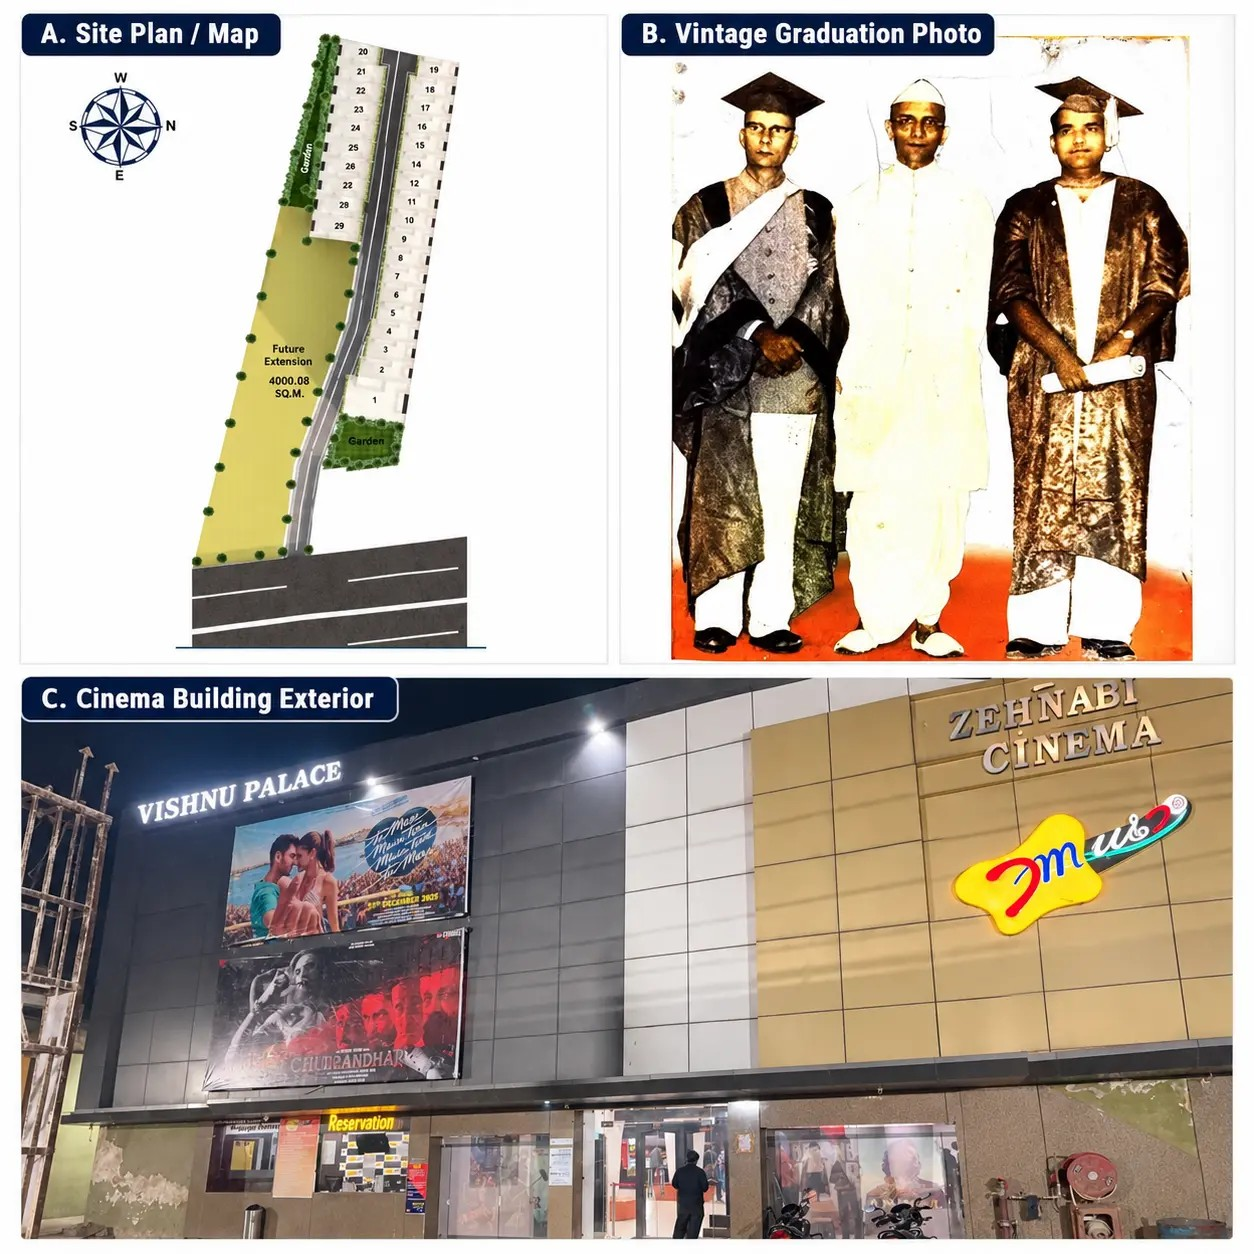
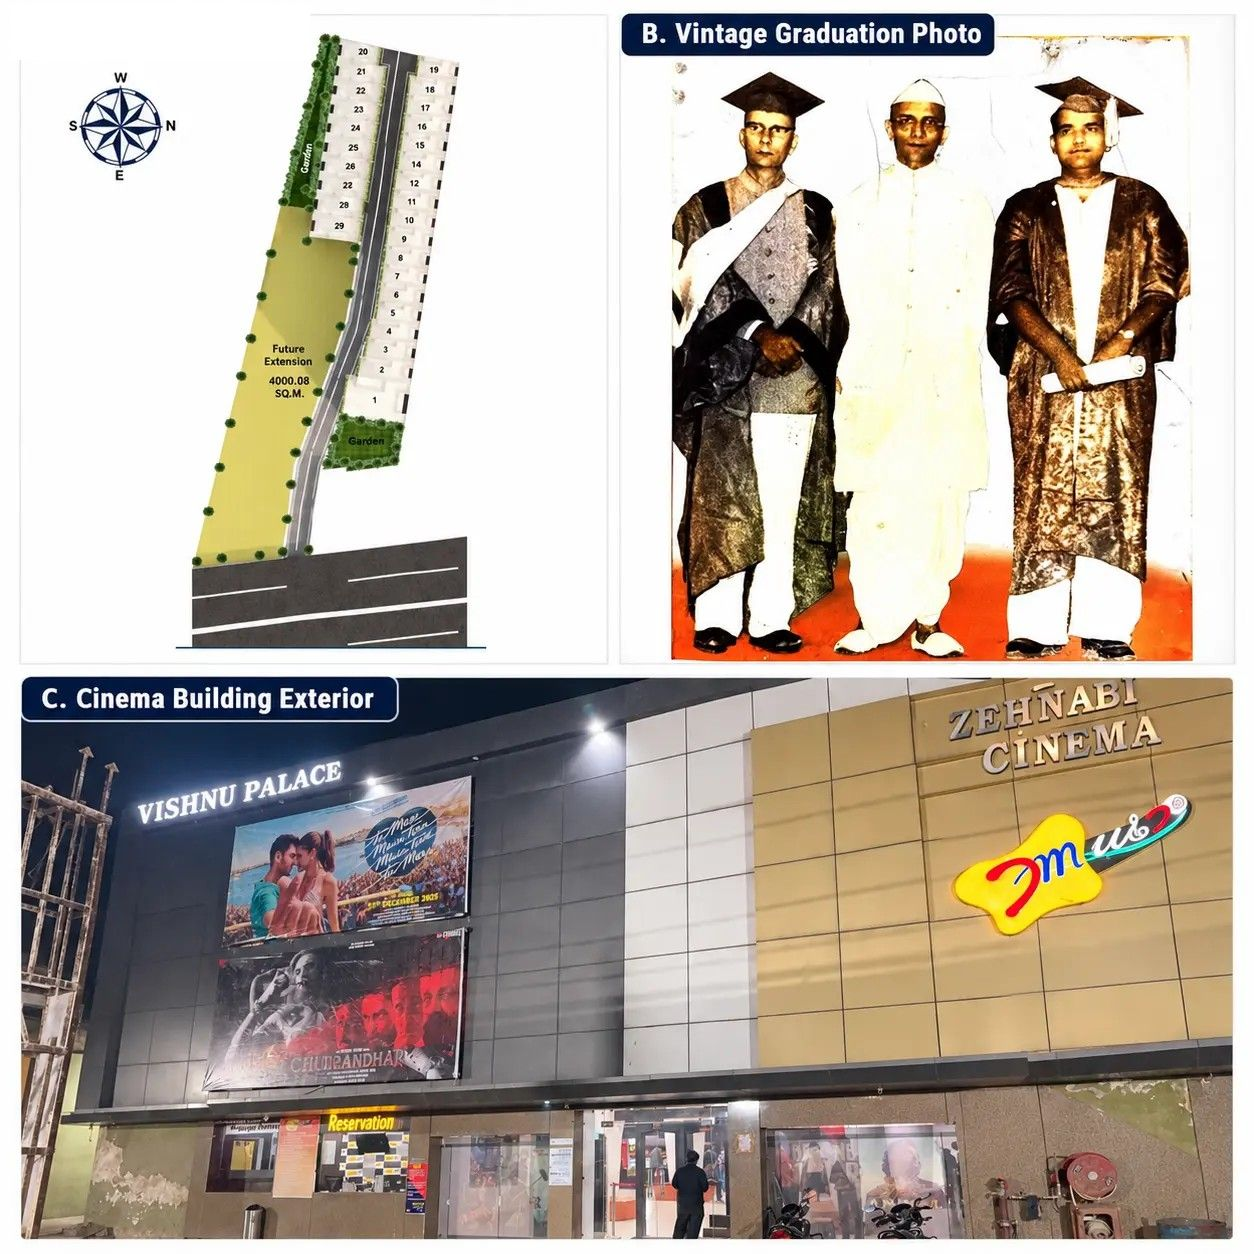
Remove Site Plan label from legacy composite, drop A Look Back card
- The "A. Site Plan / Map" badge sat on a plain white background, so
  it could be patched out cleanly. The "C. Cinema Building Exterior"
  badge sits over the VISHNU PALACE signage/scaffolding — any patch
  there duplicated the sign, so that label stays as-is (kept the
  original label since a clean removal isn't achievable without real
  inpainting). "B. Vintage Graduation Photo" was left untouched, as
  only A and C were flagged.
- Removed the "A Look Back" caption card below the image per request.

Changed region(s): [[0.0, 0.0, 0.2488, 0.0622]]

diff --git a/about.html b/about.html
@@ -1,6 +1,6 @@
 <!doctype html><html lang="en"><head><meta charset="utf-8"><meta name="viewport" content="width=device-width,initial-scale=1"><title>About Vishnu Developers & Infrastructure</title><meta name="description" content="Learn about Vishnu Developers & Infrastructure — our legacy, vision and mission."><link rel="stylesheet" href="style.css?v=47"></head><body data-page="about"><a class="skip-link" href="#main">Skip to content</a><div id="site-header"></div><main id="main">
 <section class="section"><div class="shell two-col reveal" style="align-items:start">
-<div><div class="media-frame legacy-image" style="min-height:0;aspect-ratio:1/1"><img src="assets/about/legacy-collage.jpg" alt="Vishnu Infra legacy — site plan, founders and Vishnu Palace cinema"></div><div class="card" style="margin-top:1.5rem"><h3>A Look Back</h3><p><strong>A. Site Plan</strong> — the original masterplan layout envisioned for the development.</p><p><strong>B. Vintage Graduation Photo</strong> — the founders whose vision and values continue to shape Vishnu Developers &amp; Infrastructure today.</p><p><strong>C. Cinema Building Exterior</strong> — Vishnu Palace and Zehnabi Cinema, among the group's earliest landmark properties.</p></div></div>
+<div class="media-frame legacy-image" style="min-height:0;aspect-ratio:1/1"><img src="assets/about/legacy-collage.jpg" alt="Vishnu Infra legacy — site plan, founders and Vishnu Palace cinema"></div>
 <div><span class="eyebrow">About Us</span><h2>Our Legacy</h2><p>Vishnu Developers & Infrastructure is a forward-thinking real estate development company committed to creating exceptional residential, commercial, healthcare, and mixed-use developments that enrich lives, generate lasting value, and redefine luxury living.</p><p>Founded with a vision to transform urban landscapes through innovation and excellence, the company combines thoughtful planning, contemporary design, quality construction, and sustainable development practices to deliver projects that meet the evolving aspirations of homeowners, businesses, and investors.</p><p>Our expertise spans the complete development lifecycle, including land acquisition, project planning, design development, construction management, and property delivery. Every project is executed with meticulous attention to quality, safety, regulatory compliance, and timely completion, ensuring long-term value and customer satisfaction.</p><p>At Vishnu Developers & Infrastructure, integrity, transparency, and trust form the foundation of our business. Our experienced team works closely with leading architects, engineers, consultants, and construction professionals to create developments that are both functional and aesthetically distinguished. We believe that every project should contribute positively to the communities in which we build, reflecting our guiding philosophy:</p><p class="highlight">"We Nurture Your Dreams."</p><p>As we continue to grow, our focus remains on delivering sustainable, innovative, and high-quality developments while building enduring relationships with customers, investors, partners, and communities. Through excellence in execution and continuous improvement, we aspire to be one of the most trusted and respected names in the real estate industry.</p></div>
 </div></section>
 <section class="section sand"><div class="shell"><div class="section-head reveal"><div><span class="eyebrow">Our purpose</span><h2>Vision and Mission</h2></div></div><div class="grid-2 reveal">
